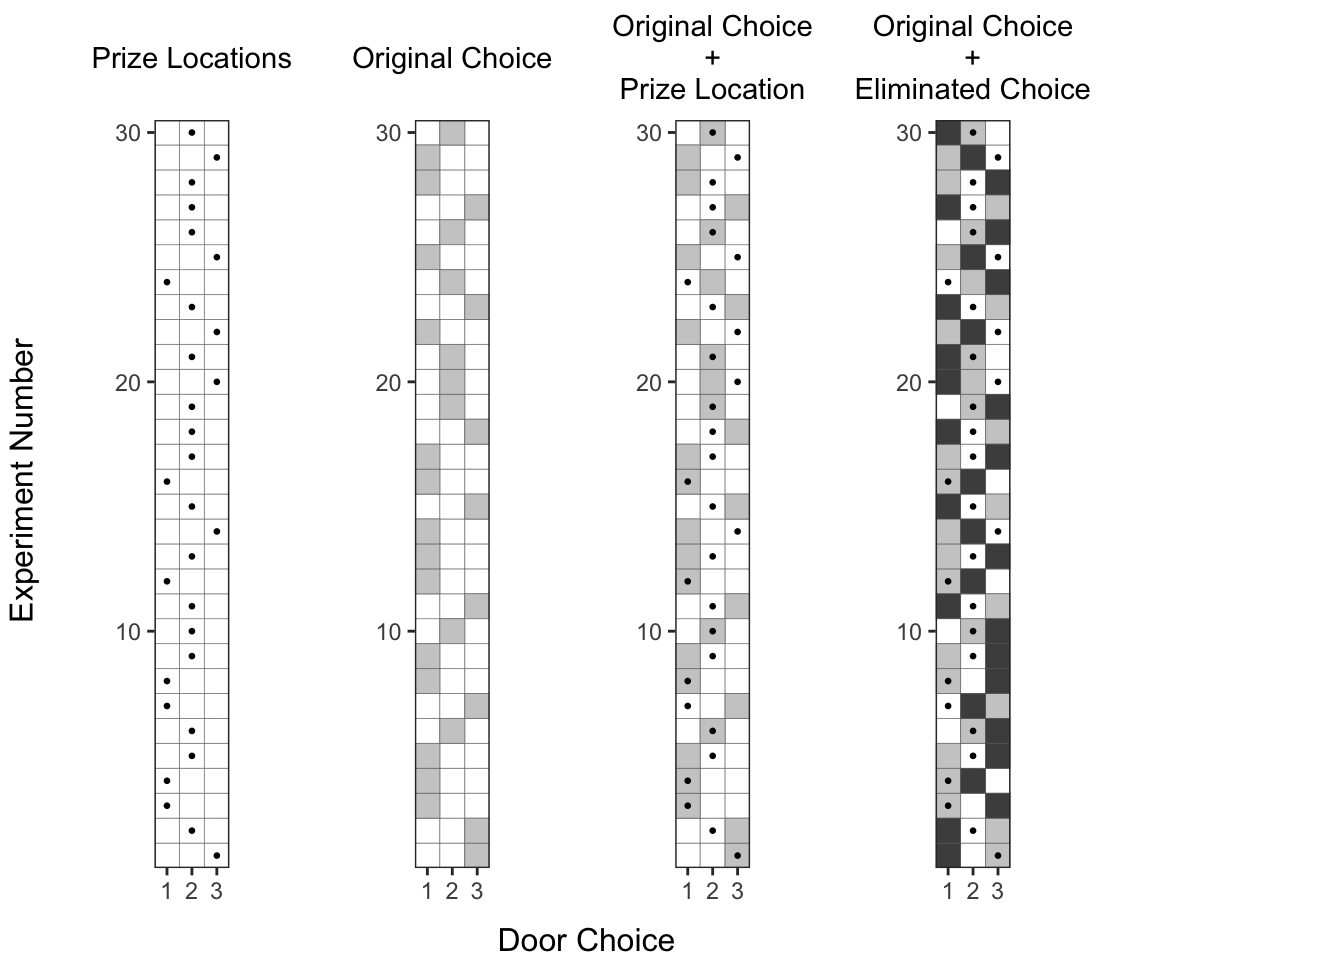
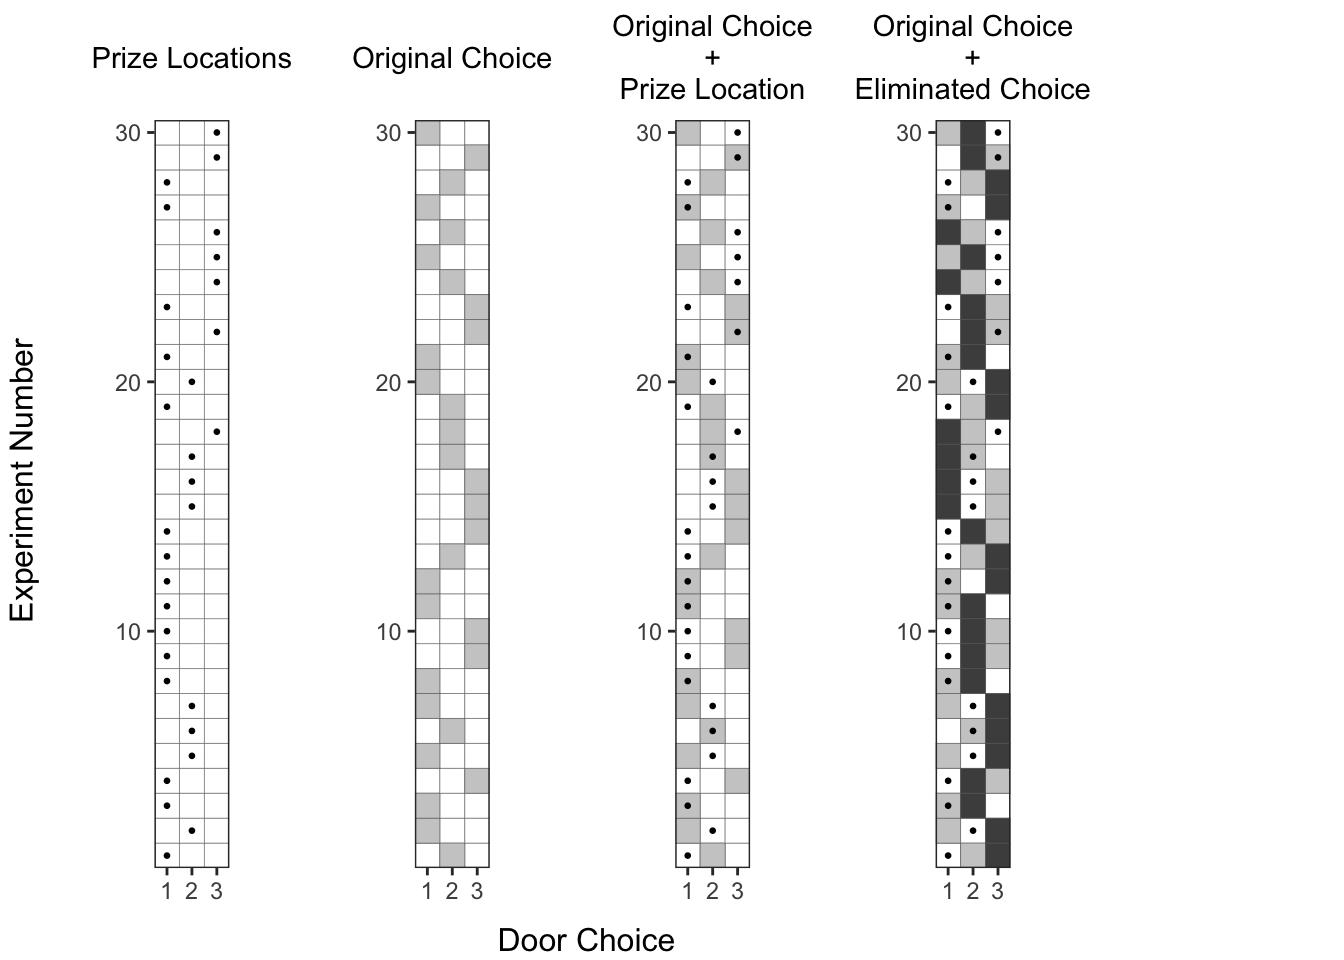
change seed for more representative counts

diff --git a/content/post/2018-11-18-monty-hall-problem.html b/content/post/2018-11-18-monty-hall-problem.html
@@ -27,7 +27,7 @@ math: TRUE
 <p>Apparently an overwhelming majority of the people think that it doesn’t matter whether you stick to your original choice or change your choice to the remaining door, as both of them are expected to have 33% chance of success originally, or 50% chance of success after you eliminate a door that doesn’t contain the prize. But, let us try to arrive at the answer in a more careful way.</p>
 <p>We start with a frequentist approach where we repeat the experiment 30 times, and see how many successes we have with each approach.</p>
 <p>We use <code>R programming language</code> to simulate the experiment 30 times, and we use the plots to understand the results. You can <code>see the code by clicking on the code button</code> below.</p>
-<pre class="r"><code>set.seed(2020)
+<pre class="r"><code>set.seed(2017)
 
 # number of runs
 n &lt;- 30
